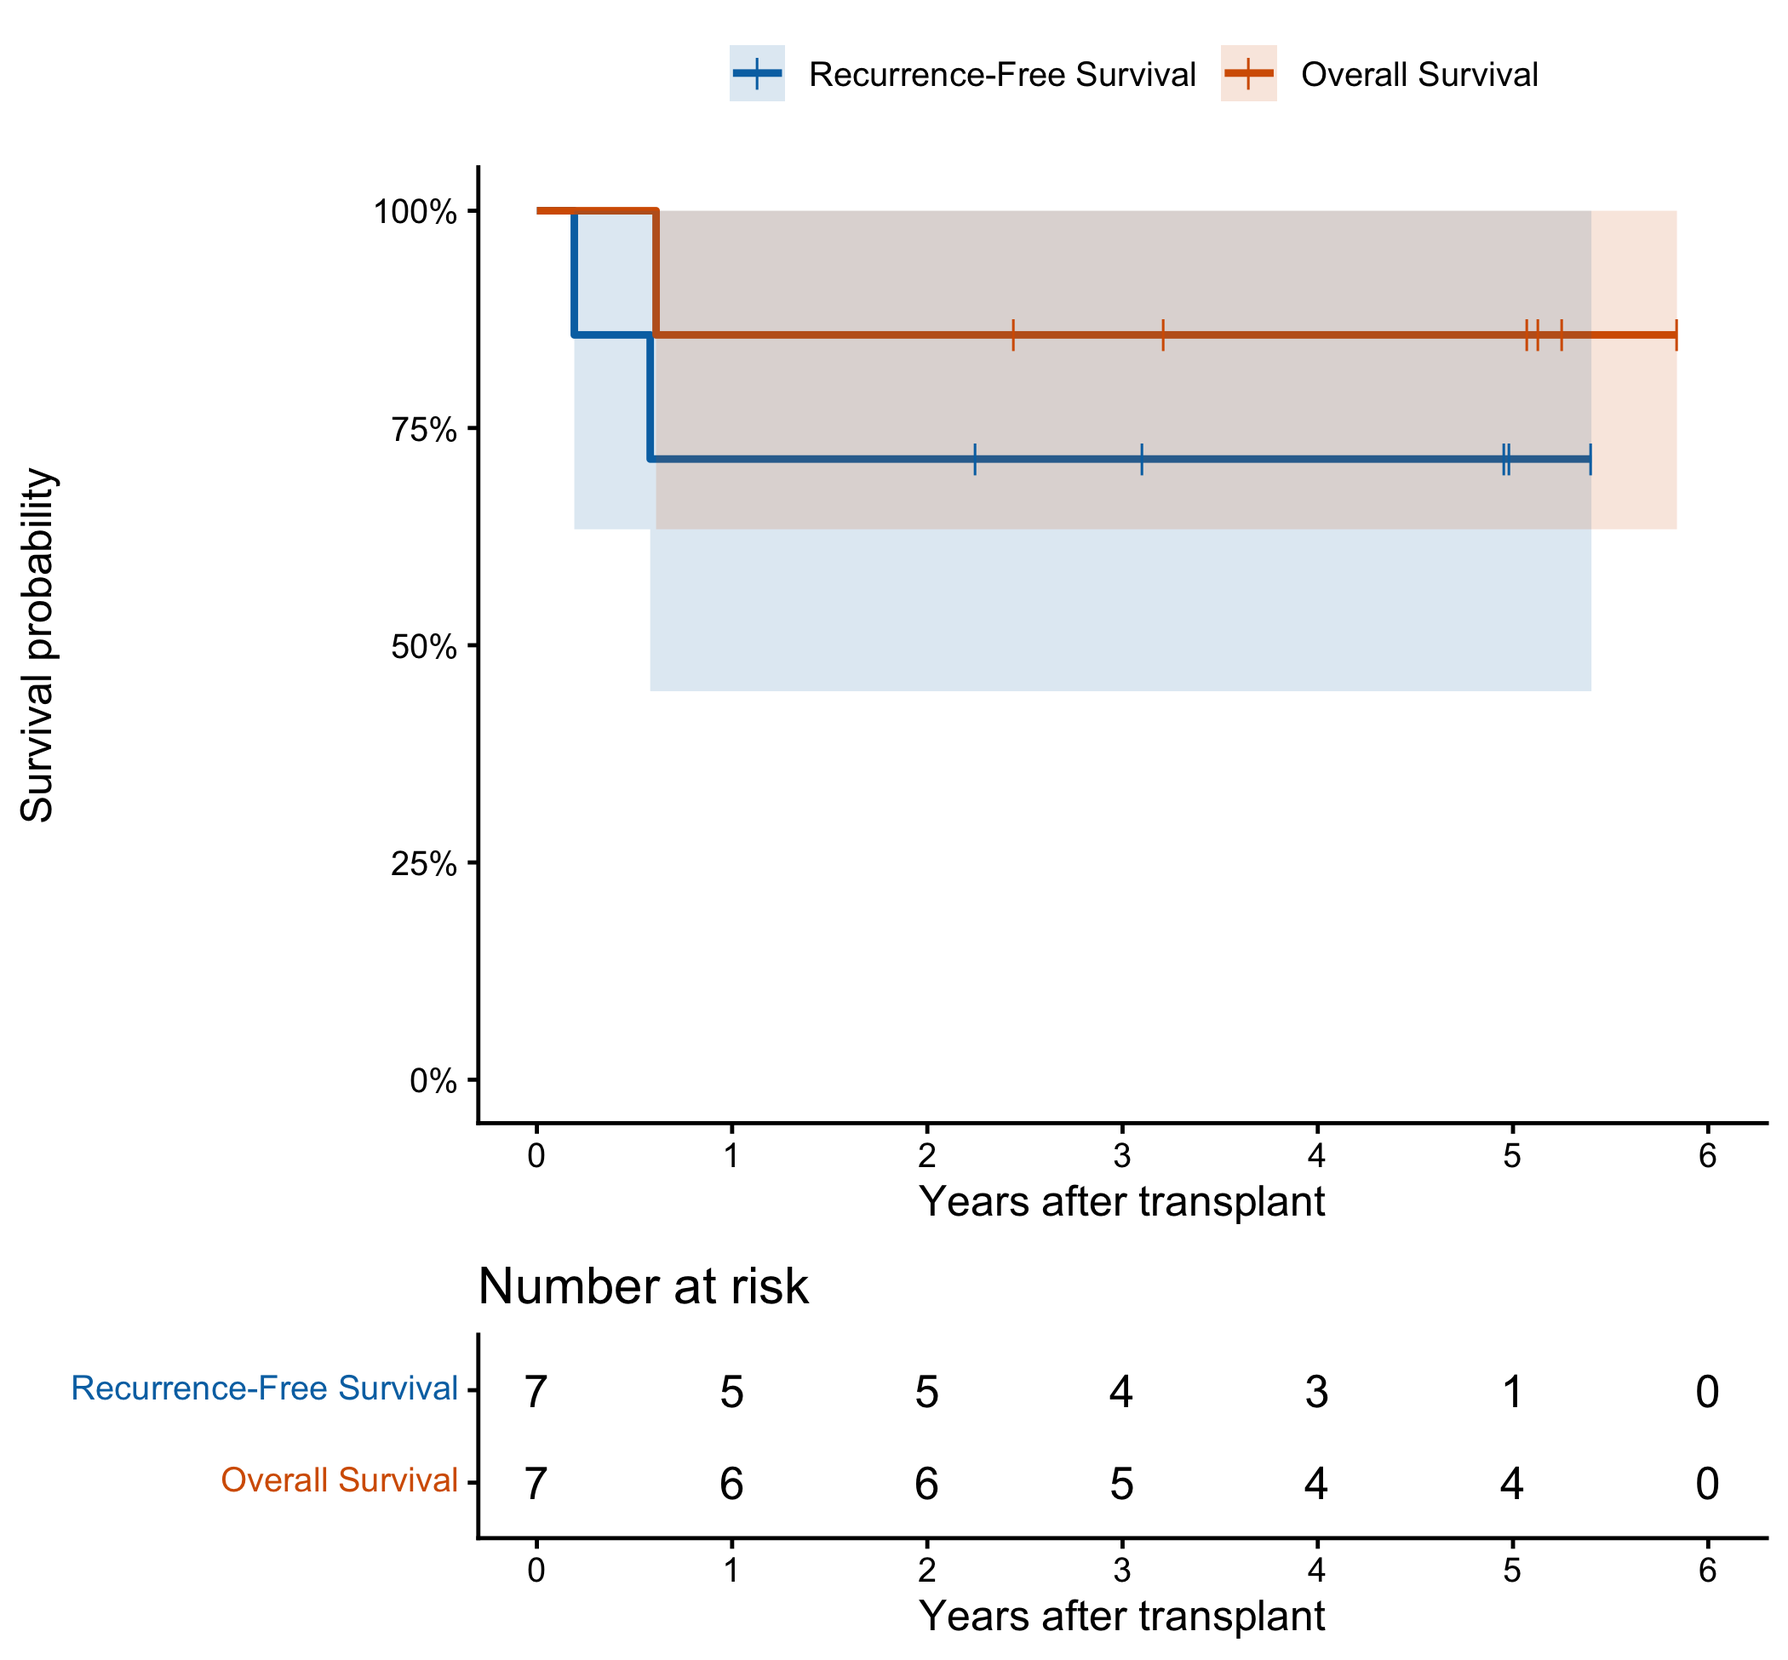
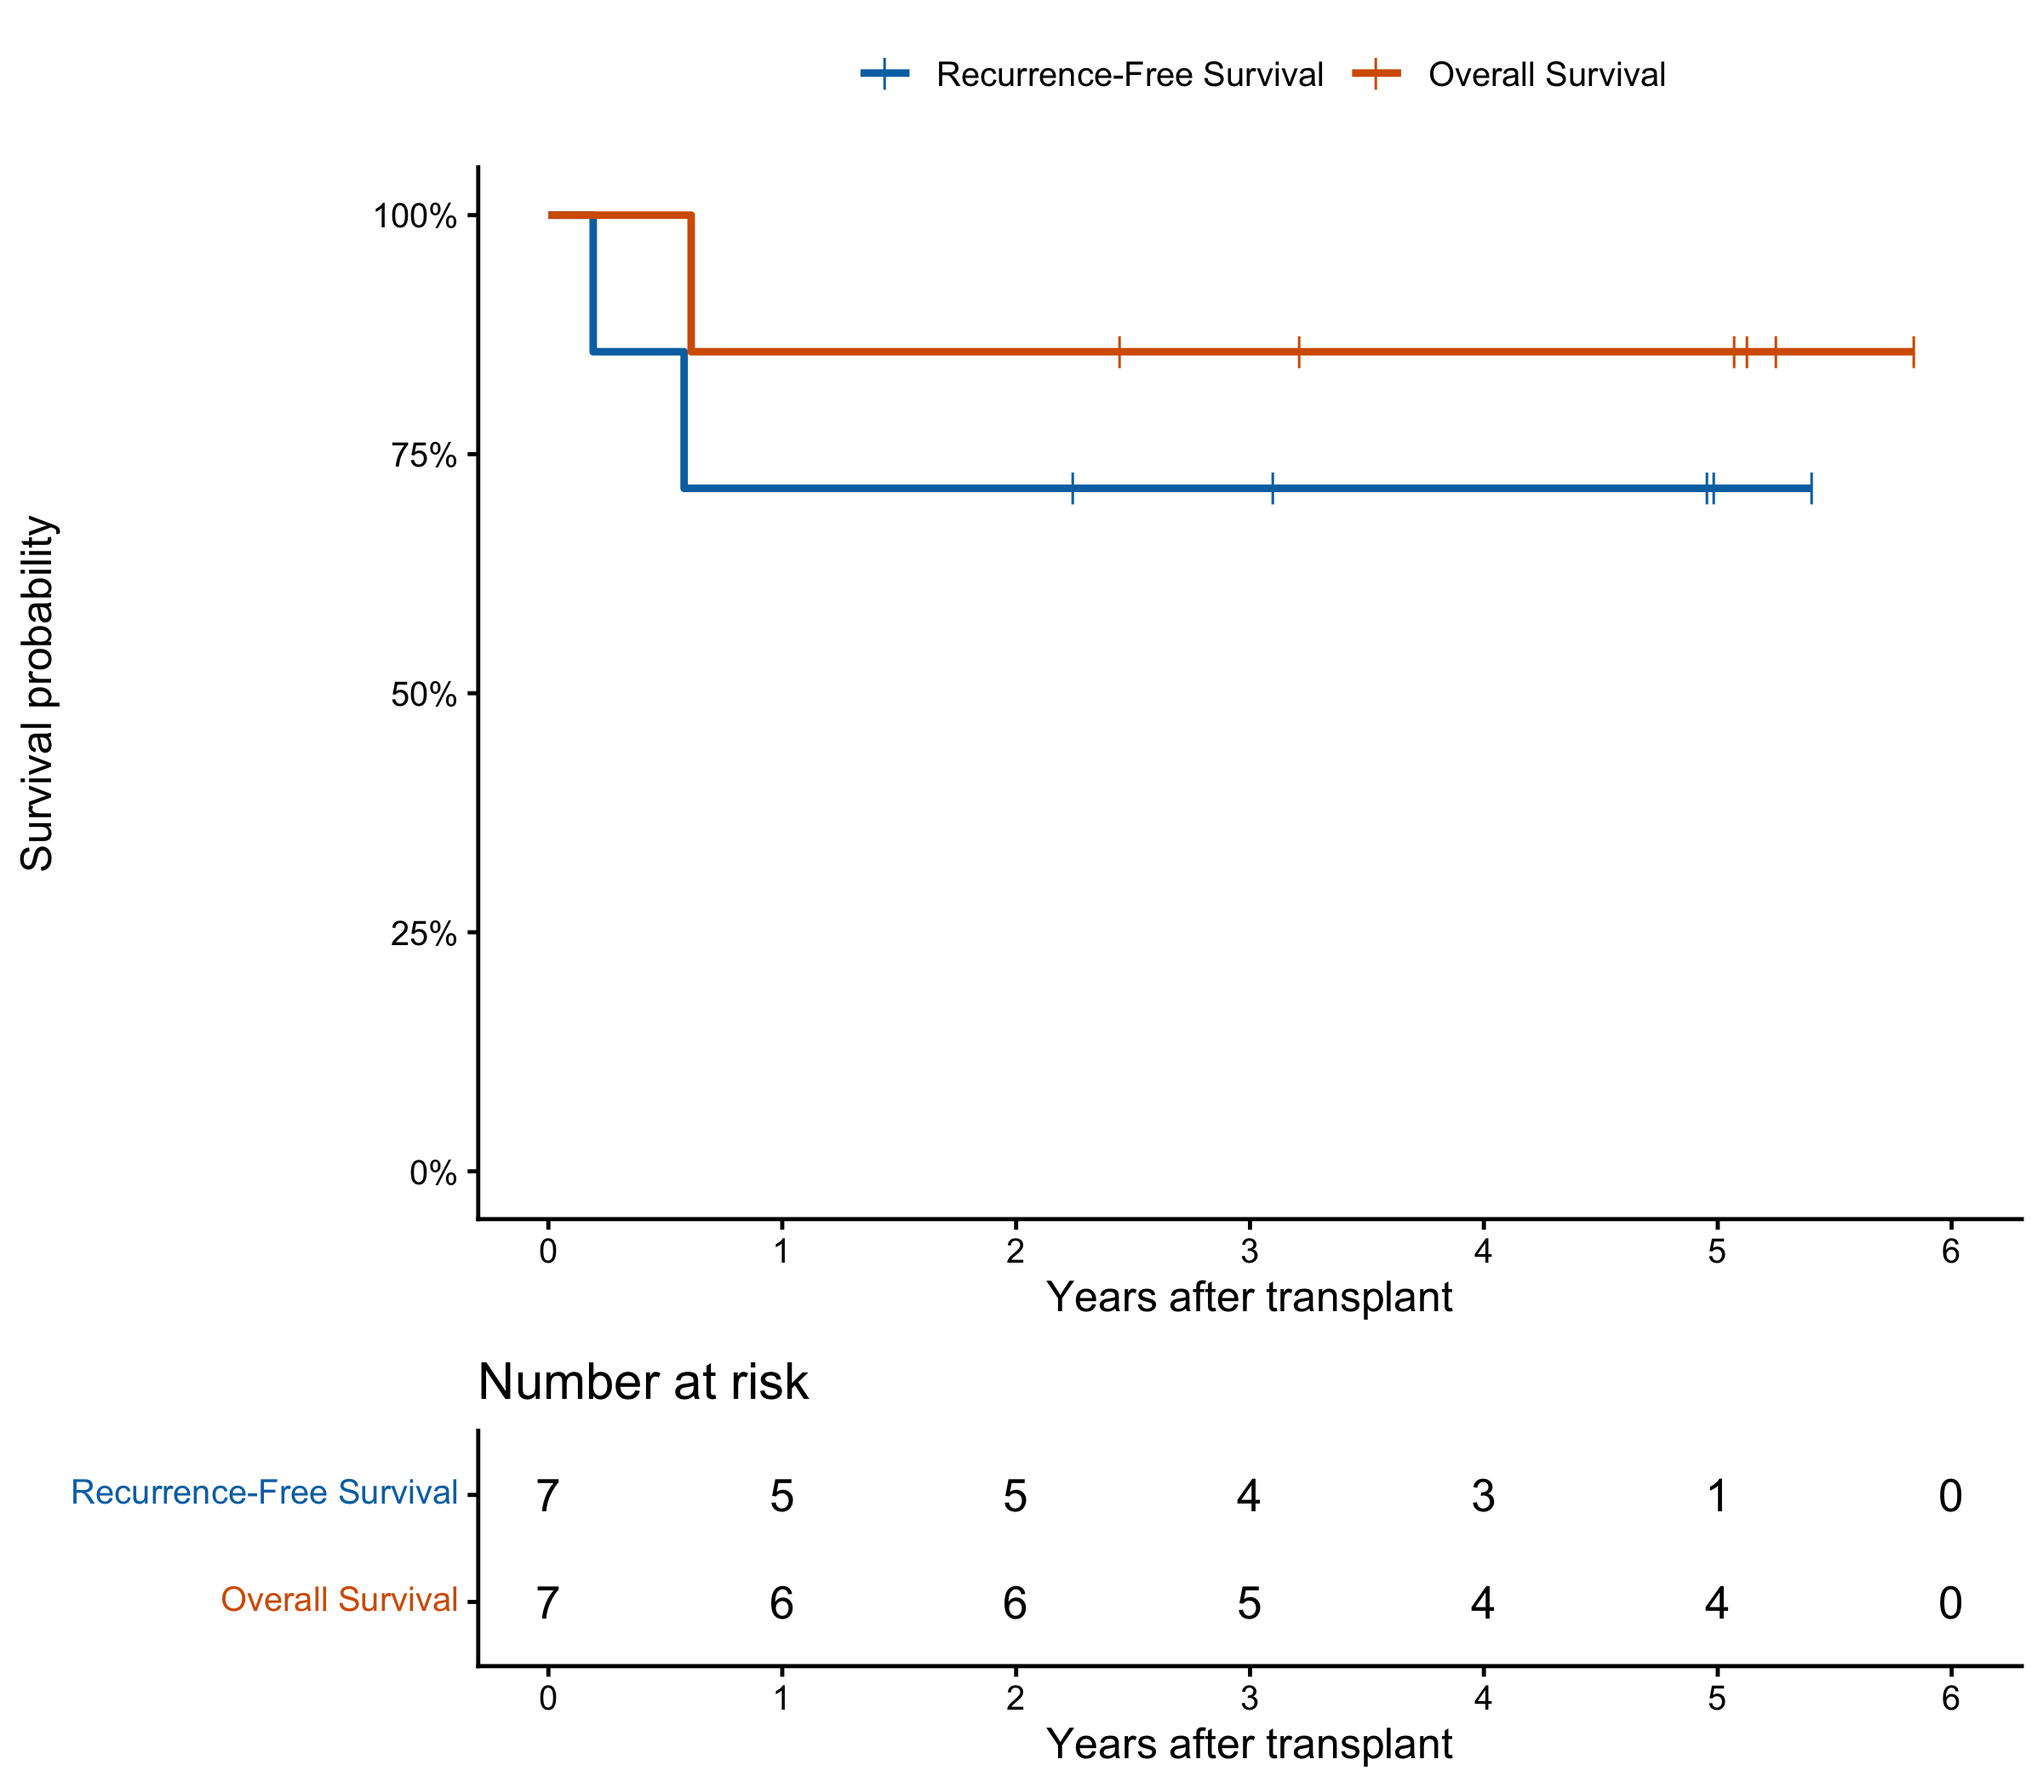
Regenerate outputs from km_analysis.R
The previous figures and tables predated this script and reported
plain-scale confidence intervals. Regenerating against the study
cohort reproduces the log-log intervals in the manuscript:
5-year OS 85.7% (33.4-97.9), 5-year RFS 71.4% (25.8-92.0).

Also enables the summary-table write.csv call.

diff --git a/README.md b/README.md
@@ -84,7 +84,9 @@ install.packages(c("survival", "survminer", "dplyr", "ggplot2"))
 Rscript km_analysis.R
 ```
 
-Figures are drawn to the active graphics device and the summary table is printed to the console. The `write.csv()` call that saves the summary table is commented out at the end of the script; uncomment it to write `survival_summary_table.csv`.
+Figures are drawn to the active graphics device, the summary table is printed to the console, and `survival_summary_table.csv` is written to the working directory.
+
+The files in `output/` were regenerated by this script against the study cohort (n = 7) and reproduce the survival estimates reported in the manuscript: 5-year overall survival 85.7% (95% CI, 33.4–97.9) and 5-year recurrence-free survival 71.4% (95% CI, 25.8–92.0).
 
 ## Citation
 
